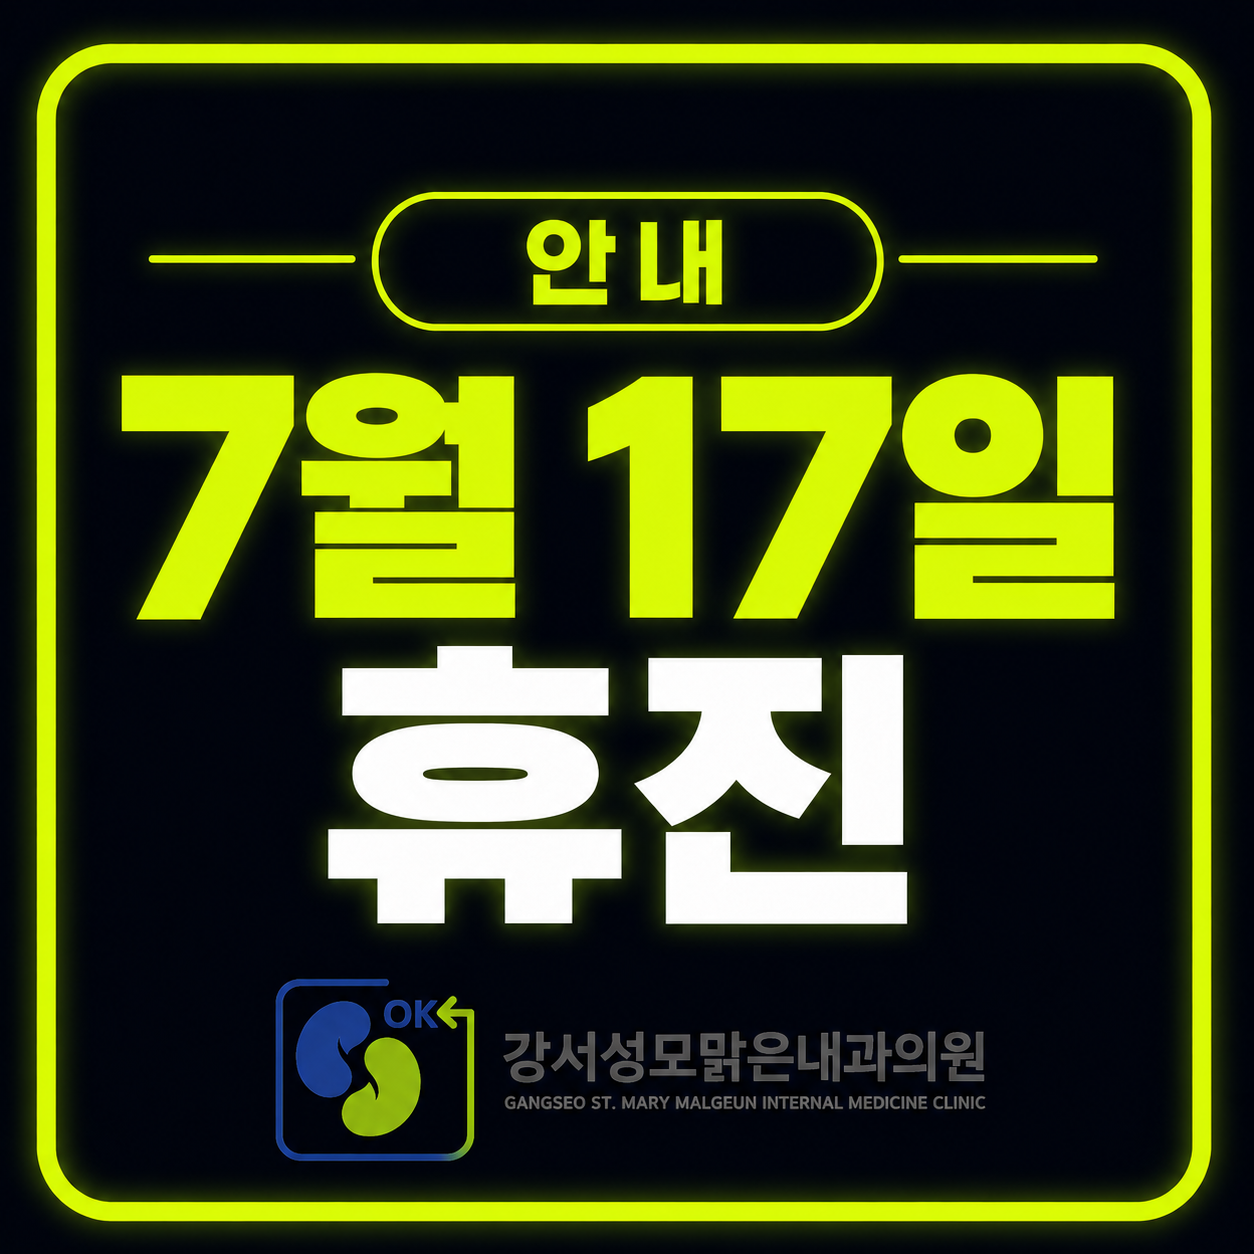
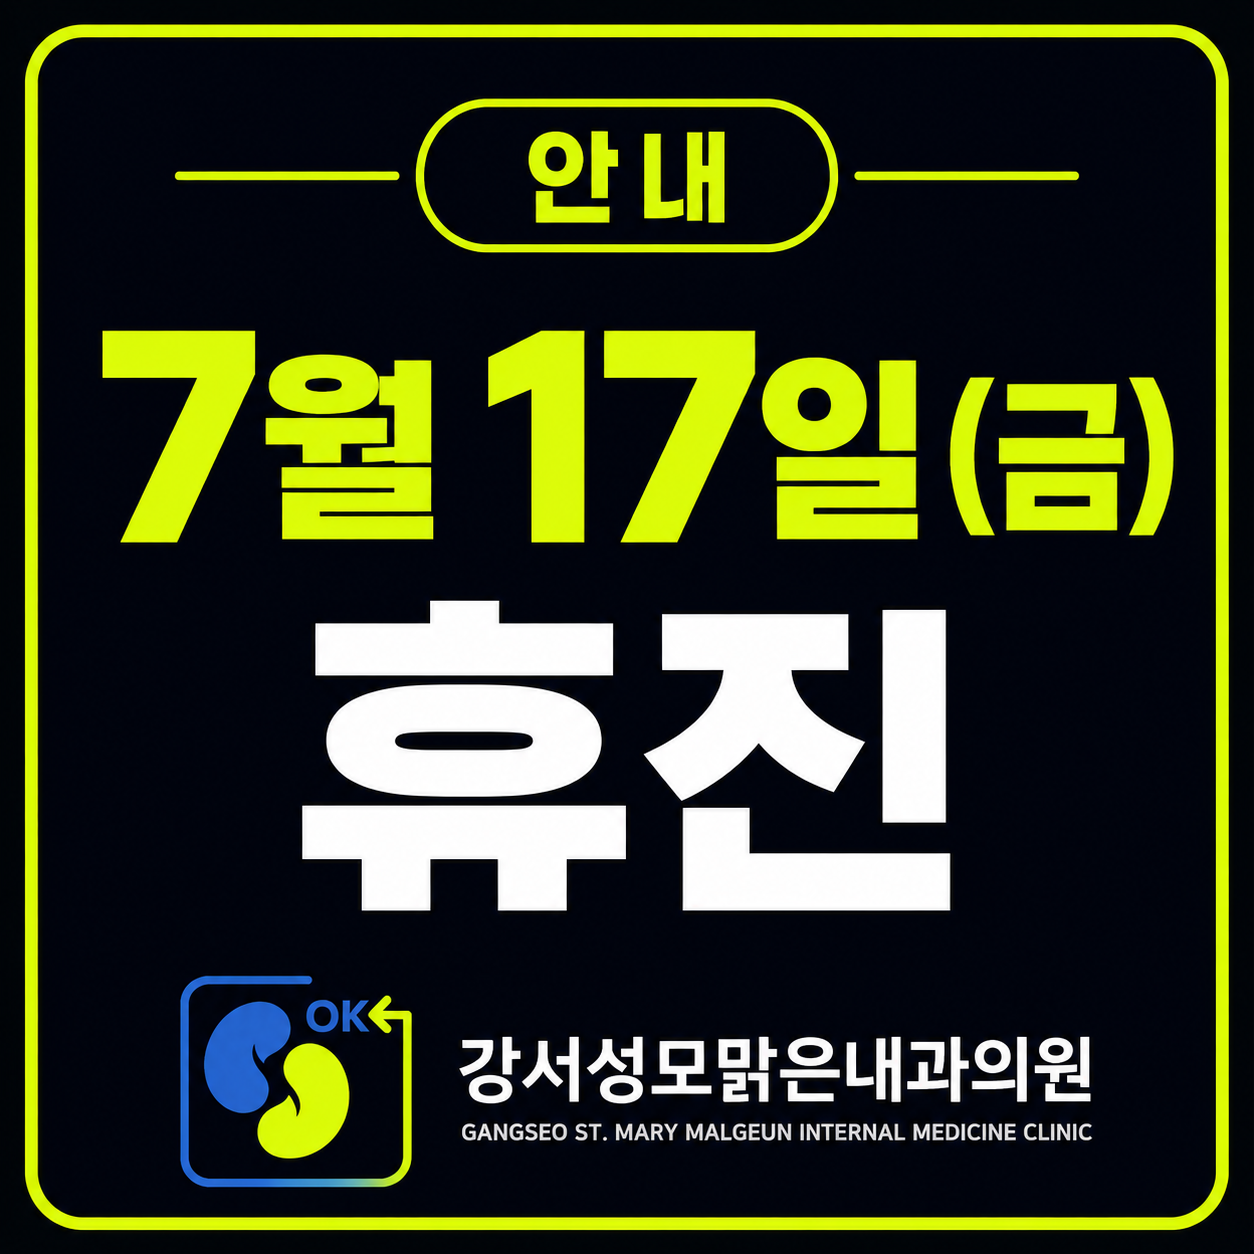
feat(dialysis,visit): 장비 이미지 교체·주차 안내 문구 정리
- 주차 안내에서 마곡역 공영주차장 문구 제거
- 04번 약속 카드 장비 이미지를 가로형 PNG로 교체 (jpg 삭제)
- 약속 카드 이미지 정렬을 카드별로 지정 가능하도록 imgPos 필드 추가
- popup-5.png 이미지 갱신

diff --git a/data/content.ts b/data/content.ts
@@ -22,12 +22,12 @@ export const DEPARTMENTS: Department[] = [
 ];
 
 // 인공신장실 — 우리의 약속(sticky 스크롤 카드: 이미지 + 텍스트)
-export type PromiseCard = { num: string; title: string; desc: string; img: string };
+export type PromiseCard = { num: string; title: string; desc: string; img: string; imgPos?: string };
 export const DIALYSIS_PROMISE: PromiseCard[] = [
   { num: "01", title: "대학병원 수준의 전문 투석 의료진", desc: "대학병원 신장내과 전문의이자 대한신장학회 인증 투석 전문의가 직접 진료합니다. 환자 한분 한분의 상태를 면밀히 평가하여 최적의 투석처방과 장기적인 혈관관리, 합병증 예방까지 책임지는 맞춤형 진료를 제공합니다.", img: doc(1) },
   { num: "02", title: "30년 이상의 투석실 경험을 갖춘 전문 간호사", desc: "30년 이상 혈액투석실에서 근무한 전문간호사가 상주하여 환자 상태를 세심하게 관찰합니다. 투석 중 발생할 수 있는 다양한 상황에 신속하게 대응하며, 환자분들이 안심하고 치료받으실 수 있는 환경을 제공합니다.", img: "/images/promise-nurse.jpg" },
   { num: "03", title: "철저한 정수 시스템과 안전한 투석 환경", desc: "혈액투석의 핵심은 깨끗한 물입니다. 본원은 철저한 정수 관리 시스템을 구축하여 투석액의 수질을 지속적으로 관리하며, 환자분들이 안심하고 치료받을 수 있는 안전한 환경을 제공합니다.", img: img(17) },
-  { num: "04", title: "최신 투석장비를 이용한 고효율 혈액투석", desc: "NIPRO NCU-18 장비를 이용하여 고효율 혈액투석여과(online HDF)를 시행합니다. 투석 상태를 실시간으로 확인하며 보다 정확하고 안정적인 치료를 제공합니다. 모든 환자에게 동일한 투석을 시행하지 않습니다. 환자의 혈관 상태, 영양 상태 및 동반 질환을 고려하여 다양한 종류의 투석막을 선택함으로써 보다 효율적이고 편안한 투석치료를 제공합니다.", img: "/images/promise-equipment.jpg" },
+  { num: "04", title: "최신 투석장비를 이용한 고효율 혈액투석", desc: "NIPRO NCU-18 장비를 이용하여 고효율 혈액투석여과(online HDF)를 시행합니다. 투석 상태를 실시간으로 확인하며 보다 정확하고 안정적인 치료를 제공합니다. 모든 환자에게 동일한 투석을 시행하지 않습니다. 환자의 혈관 상태, 영양 상태 및 동반 질환을 고려하여 다양한 종류의 투석막을 선택함으로써 보다 효율적이고 편안한 투석치료를 제공합니다.", img: "/images/promise-equipment.png" },
   { num: "05", title: "직장인을 위한 야간 투석", desc: "이른 아침부터 야간까지 운영하여 직장인도 치료와 일상을 함께 이어갈 수 있습니다. 본원은 오전 7시부터 오후 11시까지 운영하여, 출근 전 아침 투석과 퇴근 후 야간 투석이 가능합니다. 직장·학업·일상생활로 낮 시간 투석이 어려운 환자분들도 자신의 생활 패턴에 맞추어 편리하게 치료받으실 수 있습니다.", img: img(9) },
 ];
 

diff --git a/components/sections/DialysisCenter.tsx b/components/sections/DialysisCenter.tsx
@@ -86,7 +86,7 @@ export default function DialysisCenter() {
               className={`${styles.card}${!mobile && i === active ? " " + styles.cardActive : ""}`}
             >
               <div className={styles.cardImg}>
-                <img src={c.img} alt={c.title} />
+                <img src={c.img} alt={c.title} style={c.imgPos ? { objectPosition: c.imgPos } : undefined} />
                 <span className={styles.cardNum}>{c.num}</span>
               </div>
               <div className={styles.cardBody}>

diff --git a/components/sections/Visit.tsx b/components/sections/Visit.tsx
@@ -154,7 +154,6 @@ export default function Visit() {
               </div>
               <div className={styles.item}>
                 <p className={styles.note}>병원 방문 시 <strong>무료 주차권</strong> 제공</p>
-                <p className={styles.note}>혼잡 시 마곡역 공영주차장(도보 약 3분) 이용 가능</p>
               </div>
             </div>
           </div>
